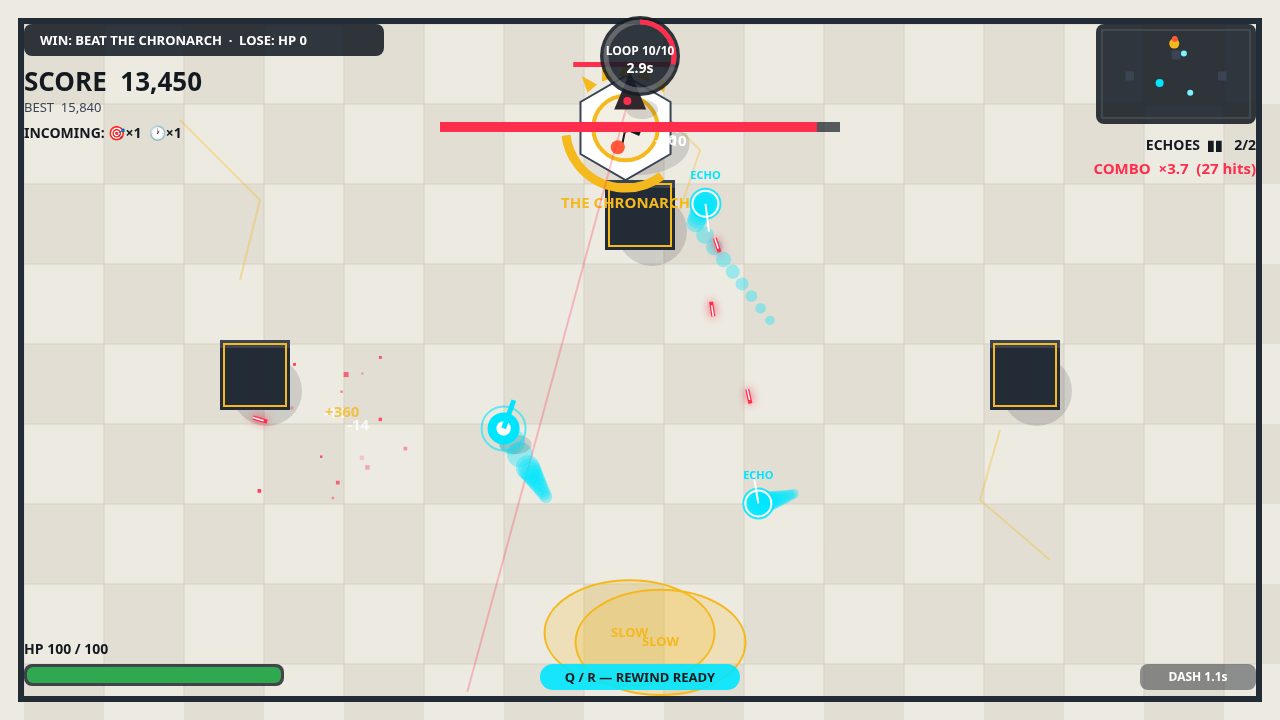
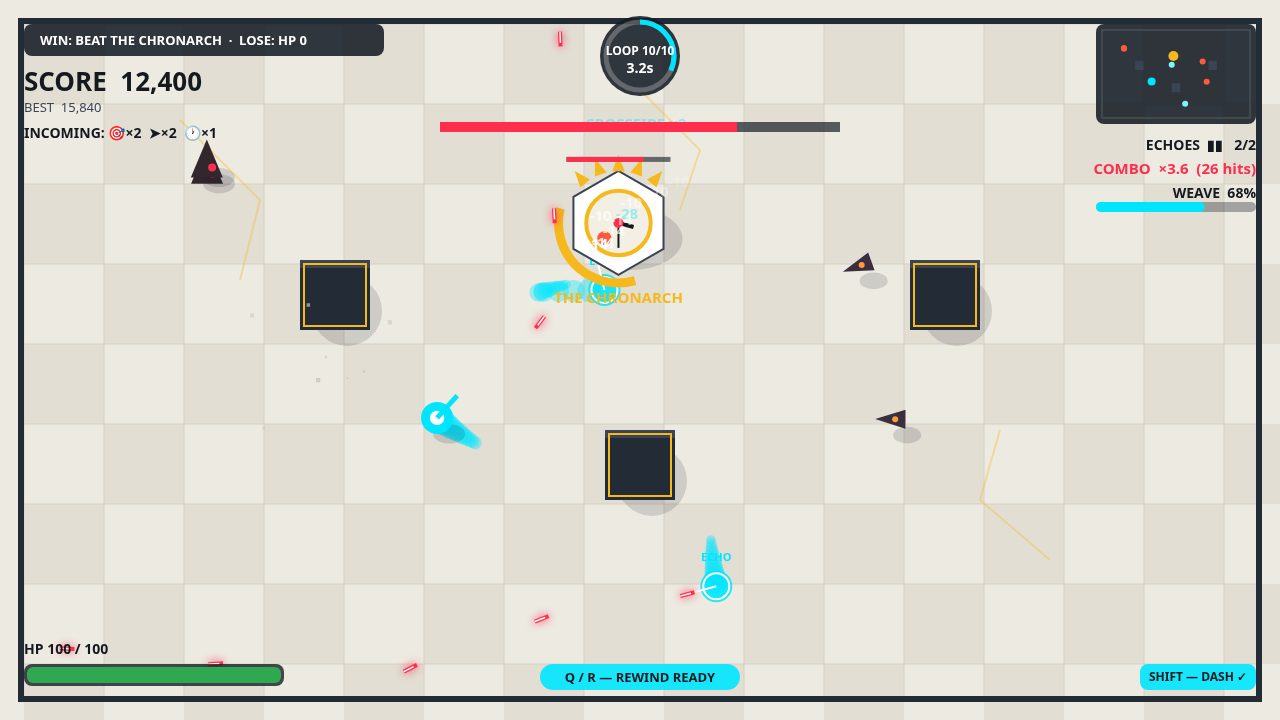
Pass 1: sharpen the hook — WEAVE meter, PARADOX SURGE, clean vs frayed rewinds
- WEAVE meter 0..100, +34 per crossfire (3 fill it); HUD bar under the
  combo gauge, flashing PARADOX READY at 100; SURGES on the win screen.
- PARADOX SURGE: a rewind at full Weave spends it for +1 echo slot
  (hard cap 4); banner + gold float; echoSlots() is the one source of
  truth for capacity (HUD, rewind cap, draft screen).
- Clean vs frayed rewind: manual Q/R is clean; timeout rewinds add
  fray (cap 3), each fray spawns an extra Chaser next loop; radial
  clock pulses red under 3s with a REWIND NOW (Q) hint.
- Title one-liner: YOUR PAST SELF FIGHTS BESIDE YOU. + subline.
- Bot now banks the echo early even with a full bench (manual rewind
  is clean; the clock running out is what costs).
- Verified: bot wins S on seeds 1/5/9; surges 3-5/run, crossfires
  15-23/run, max 4 echoes; careless loses Loop 2; lag unchanged
  (0.906 sim/wall-s); determinism maxErr 0; zero errors.

diff --git a/game/src/ui/DiegeticHUDRenderer.js b/game/src/ui/DiegeticHUDRenderer.js
@@ -5,6 +5,7 @@
 // screen explains the mechanic in a 3-panel diagram (FIGHT 10s → REWIND →
 // ECHO REPLAYS IT) so the loop is understood in one glance at 382x238.
 import { W, H, ARENA, COLOURS, MAX_LOOPS, DIFFICULTY_ORDER, DIFFICULTIES, clamp } from '../config.js';
+import { echoSlots } from '../core/GameLoopEngine.js';
 import { UPGRADES } from '../systems/ParadoxUpgradeSystem.js';
 
 function rr(ctx, x, y, w, h, r) {
@@ -346,9 +347,16 @@ function drawPlayHUD(ctx, state, input) {
   for (const t of order) if (counts[t]) { inc += (first ? '' : '  ') + icons[t] + '×' + counts[t]; first = false; }
   if (first) inc += '— arena clear —';
   text(ctx, inc, 24, 134, 'bold 14px system-ui, sans-serif', '#14181F', 'left');
-  // Radial timeline clock, top-center.
+  // Radial timeline clock, top-center. Under 3s it pulses red: the player
+  // should WANT to rewind deliberately (Q) before the clock runs out.
   const cx = 640, cy = 56, R = 34;
   const frac = clamp(state.loopTimeLeft / state.diff.loop, 0, 1);
+  const urgent = state.screen === 'play' && state.loopTimeLeft < 3 && state.loopElapsed >= 2;
+  if (urgent) {
+    ctx.strokeStyle = 'rgba(255,46,77,' + (0.5 + 0.4 * Math.sin(state.time * 10)) + ')';
+    ctx.lineWidth = 3;
+    ctx.beginPath(); ctx.arc(cx, cy, R + 12 + 2 * Math.sin(state.time * 10), 0, Math.PI * 2); ctx.stroke();
+  }
   ctx.fillStyle = 'rgba(22,28,37,0.88)';
   ctx.beginPath(); ctx.arc(cx, cy, R + 6, 0, Math.PI * 2); ctx.fill();
   ctx.strokeStyle = 'rgba(255,255,255,0.25)'; ctx.lineWidth = 5;
@@ -357,6 +365,13 @@ function drawPlayHUD(ctx, state, input) {
   ctx.beginPath(); ctx.arc(cx, cy, R, -Math.PI / 2, -Math.PI / 2 + frac * Math.PI * 2); ctx.stroke();
   text(ctx, 'LOOP ' + state.loop + '/' + MAX_LOOPS, cx, cy - 4, 'bold 12px system-ui, sans-serif', '#FFFFFF', 'center');
   text(ctx, Math.max(0, state.loopTimeLeft).toFixed(1) + 's', cx, cy + 13, 'bold 14px system-ui, sans-serif', '#FFFFFF', 'center');
+  // Fray + manual-rewind hint, under the clock.
+  if (state.fray > 0) text(ctx, 'TIMELINE FRAY ×' + state.fray, cx, 150, 'bold 13px system-ui, sans-serif', COLOURS.crimson, 'center');
+  if (urgent) {
+    ctx.globalAlpha = 0.6 + 0.4 * Math.sin(state.time * 10);
+    text(ctx, 'REWIND NOW  (Q)', cx, state.fray > 0 ? 174 : 150, 'bold 15px system-ui, sans-serif', COLOURS.gold, 'center');
+    ctx.globalAlpha = 1;
+  }
   // Boss bar under the clock.
   if (state.boss && state.boss.hp > 0) {
     // Bar only: the boss's name is drawn under the boss itself.
@@ -384,11 +399,24 @@ function drawPlayHUD(ctx, state, input) {
   for (const ec of state.echoes) dot(ec.x, ec.y, '#7DF3FF', 3);
   if (p.alive) dot(p.x, p.y, COLOURS.cyan, 4);
   // Echo slots + combo, under the minimap.
+  const slotsN = echoSlots(state);
   let slots = 'ECHOES  ';
-  for (let i = 0; i < state.upgradeValues.maxEchoes; i++) slots += i < state.echoes.length ? '▮' : '▯';
-  text(ctx, slots + '   ' + state.echoes.length + '/' + state.upgradeValues.maxEchoes, 1256, 146, 'bold 14px system-ui, sans-serif', '#14181F', 'right');
+  for (let i = 0; i < slotsN; i++) slots += i < state.echoes.length ? '▮' : '▯';
+  text(ctx, slots + '   ' + state.echoes.length + '/' + slotsN, 1256, 146, 'bold 14px system-ui, sans-serif', '#14181F', 'right');
   const cm = (1 + state.combo * 0.1).toFixed(1);
   text(ctx, 'COMBO  ×' + cm + (state.combo > 0 ? '  (' + state.combo + ' hits)' : ''), 1256, 170, 'bold 15px system-ui, sans-serif', state.combo >= 10 ? COLOURS.crimson : '#14181F', 'right');
+  // WEAVE meter: crossfires charge it (3 fill it). At 100 the next rewind
+  // is a PARADOX SURGE — +1 echo slot. The label flashes gold when ready.
+  const wv = clamp(state.weave || 0, 0, 100);
+  const weaveReady = wv >= 100;
+  const weaveCol = weaveReady ? (Math.sin(state.time * 8) > 0 ? COLOURS.gold : '#FFFFFF') : '#14181F';
+  text(ctx, weaveReady ? '⚡ PARADOX READY' : 'WEAVE  ' + Math.floor(wv) + '%', 1256, 194, 'bold 14px system-ui, sans-serif', weaveCol, 'right');
+  ctx.fillStyle = 'rgba(22,28,37,0.35)';
+  rr(ctx, 1096, 202, 160, 10, 5); ctx.fill();
+  if (wv > 0) {
+    ctx.fillStyle = weaveReady ? COLOURS.gold : COLOURS.cyan;
+    rr(ctx, 1096, 202, 160 * (wv / 100), 10, 5); ctx.fill();
+  }
   // HP bar, bottom-left.
   ctx.fillStyle = 'rgba(22,28,37,0.8)';
   rr(ctx, 24, 664, 260, 22, 8); ctx.fill();
@@ -442,8 +470,9 @@ function drawTitle(ctx, state, input) {
   rr(ctx, 150, 36, 980, 648, 18); ctx.fill();
   ctx.strokeStyle = COLOURS.gold; ctx.lineWidth = 2;
   rr(ctx, 150, 36, 980, 648, 18); ctx.stroke();
-  text(ctx, 'CHRONOWEAVE', 640, 100, 'bold 62px system-ui, sans-serif', '#FFFFFF', 'center');
-  text(ctx, 'Every 10 seconds, rewind — and fight beside your own ghost.', 640, 142, 'italic 19px system-ui, sans-serif', '#7DF3FF', 'center');
+  text(ctx, 'CHRONOWEAVE', 640, 96, 'bold 62px system-ui, sans-serif', '#FFFFFF', 'center');
+  text(ctx, 'YOUR PAST SELF FIGHTS BESIDE YOU.', 640, 134, 'bold 27px system-ui, sans-serif', COLOURS.gold, 'center');
+  text(ctx, 'Rewind to multiply. Crossfire to charge the Weave.', 640, 160, 'italic 17px system-ui, sans-serif', '#7DF3FF', 'center');
   // 3-panel diagram: FIGHT → REWIND → ECHO REPLAYS.
   const panels = [
     { n: '1', title: 'FIGHT 10s', sub: 'WASD move · mouse aim · click shoot', col: COLOURS.crimson },
@@ -452,19 +481,20 @@ function drawTitle(ctx, state, input) {
   ];
   panels.forEach((pn, i) => {
     const x = 190 + i * 310;
+    const y = 182;
     ctx.fillStyle = 'rgba(255,255,255,0.08)';
-    rr(ctx, x, 168, 280, 96, 10); ctx.fill();
+    rr(ctx, x, y, 280, 96, 10); ctx.fill();
     ctx.strokeStyle = pn.col; ctx.lineWidth = 2;
-    rr(ctx, x, 168, 280, 96, 10); ctx.stroke();
+    rr(ctx, x, y, 280, 96, 10); ctx.stroke();
     ctx.fillStyle = pn.col;
-    ctx.beginPath(); ctx.arc(x + 28, 198, 16, 0, Math.PI * 2); ctx.fill();
-    text(ctx, pn.n, x + 28, 199, 'bold 17px system-ui, sans-serif', '#14181F', 'center');
-    text(ctx, pn.title, x + 52, 192, 'bold 17px system-ui, sans-serif', '#FFFFFF', 'left');
-    text(ctx, pn.sub, x + 16, 232, '13px system-ui, sans-serif', '#C9C2B2', 'left');
-    if (i < 2) text(ctx, '➜', x + 282, 216, 'bold 22px system-ui, sans-serif', '#FFFFFF', 'center');
+    ctx.beginPath(); ctx.arc(x + 28, y + 30, 16, 0, Math.PI * 2); ctx.fill();
+    text(ctx, pn.n, x + 28, y + 31, 'bold 17px system-ui, sans-serif', '#14181F', 'center');
+    text(ctx, pn.title, x + 52, y + 24, 'bold 17px system-ui, sans-serif', '#FFFFFF', 'left');
+    text(ctx, pn.sub, x + 16, y + 64, '13px system-ui, sans-serif', '#C9C2B2', 'left');
+    if (i < 2) text(ctx, '➜', x + 282, y + 48, 'bold 22px system-ui, sans-serif', '#FFFFFF', 'center');
   });
   // HOW TO PLAY + enemy list, two columns.
-  text(ctx, 'HOW TO PLAY', 190, 296, 'bold 16px system-ui, sans-serif', COLOURS.gold, 'left');
+  text(ctx, 'HOW TO PLAY', 190, 306, 'bold 16px system-ui, sans-serif', COLOURS.gold, 'left');
   const how = [
     'WASD / arrows — move     ·     Mouse — aim     ·     Click / hold — fire lasers',
     'SHIFT / SPACE — dash (brief invulnerability)     ·     Q / R — rewind early',
@@ -472,18 +502,18 @@ function drawTitle(ctx, state, input) {
     'Guardians block shots from the FRONT — let an echo distract them, then backstab.',
     'Clear a loop to draft 1 of 3 upgrades. Beat THE CHRONARCH on Loop 10 to win.',
   ];
-  how.forEach((h, i) => text(ctx, h, 190, 320 + i * 22, '14px system-ui, sans-serif', '#EDEAE2', 'left'));
-  text(ctx, 'MEET THE ENEMY', 190, 448, 'bold 16px system-ui, sans-serif', COLOURS.gold, 'left');
+  how.forEach((h, i) => text(ctx, h, 190, 328 + i * 21, '14px system-ui, sans-serif', '#EDEAE2', 'left'));
+  text(ctx, 'MEET THE ENEMY', 190, 442, 'bold 16px system-ui, sans-serif', COLOURS.gold, 'left');
   const foes = ['guardian', 'sniper', 'bomber', 'chaser', 'splitter', 'warden', 'chronarch'];
   foes.forEach((t, i) => {
     const [icon, name] = ENEMY_LABELS[t];
     const x = 190 + (i % 4) * 235;
-    const y = 474 + Math.floor(i / 4) * 30;
+    const y = 468 + Math.floor(i / 4) * 30;
     text(ctx, icon + '  ' + name, x, y, 'bold 13px system-ui, sans-serif', '#FFFFFF', 'left');
   });
   // Difficulty buttons.
   DIFFICULTY_ORDER.forEach((d, i) => {
-    const x = 250 + i * 210, y = 566, w = 190, h = 44;
+    const x = 250 + i * 210, y = 560, w = 190, h = 44;
     const sel = state.difficulty === d;
     ctx.fillStyle = sel ? COLOURS.cyan : 'rgba(255,255,255,0.10)';
     rr(ctx, x, y, w, h, 8); ctx.fill();
@@ -495,11 +525,11 @@ function drawTitle(ctx, state, input) {
   });
   // START button.
   ctx.fillStyle = COLOURS.crimson;
-  rr(ctx, 470, 626, 340, 52, 10); ctx.fill();
+  rr(ctx, 470, 620, 340, 52, 10); ctx.fill();
   ctx.strokeStyle = '#FFFFFF'; ctx.lineWidth = 2;
-  rr(ctx, 470, 626, 340, 52, 10); ctx.stroke();
-  text(ctx, '▶  START SHIFT', 640, 653, 'bold 22px system-ui, sans-serif', '#FFFFFF', 'center');
-  input.clickRects.push({ kind: 'start', x: 470, y: 626, w: 340, h: 52 });
+  rr(ctx, 470, 620, 340, 52, 10); ctx.stroke();
+  text(ctx, '▶  START SHIFT', 640, 647, 'bold 22px system-ui, sans-serif', '#FFFFFF', 'center');
+  input.clickRects.push({ kind: 'start', x: 470, y: 620, w: 340, h: 52 });
   text(ctx, 'BEST  ' + state.best.toLocaleString('en-US'), 1090, 64, 'bold 15px system-ui, sans-serif', COLOURS.gold, 'right');
 }
 
@@ -541,7 +571,7 @@ function drawDraft(ctx, state, input) {
   }).join('  ·  ') : 'none yet';
   text(ctx, 'OWNED:  ' + owned, 640, 516, '15px system-ui, sans-serif', '#C9C2B2', 'center');
   const next = state.loop === 5 ? 'NEXT: LOOP 5 — THE WARDEN' : state.loop === 10 ? 'NEXT: LOOP 10 — THE CHRONARCH' : 'NEXT: LOOP ' + state.loop;
-  text(ctx, next + '   ·   ECHOES ' + state.echoes.length + '/' + state.upgradeValues.maxEchoes, 640, 548, 'bold 16px system-ui, sans-serif', COLOURS.cyan, 'center');
+  text(ctx, next + '   ·   ECHOES ' + state.echoes.length + '/' + echoSlots(state), 640, 548, 'bold 16px system-ui, sans-serif', COLOURS.cyan, 'center');
 }
 
 // ---- Summary ----
@@ -570,11 +600,12 @@ function drawSummary(ctx, state, input) {
     ['KILLS', String(state.kills)],
     ['ACCURACY', acc + '%'],
     ['CROSSFIRES', String(state.crossfires)],
+    ['SURGES', String(state.surges || 0)],
     ['SHIELD BREAKS', String(state.shieldBreaks)],
     ['REWINDS', String(state.rewinds)],
   ];
   stats.forEach((s, i) => {
-    const x = 320 + i * 125;
+    const x = 316 + i * 108;
     text(ctx, s[0], x, 396, 'bold 12px system-ui, sans-serif', '#C9C2B2', 'center');
     text(ctx, s[1], x, 422, 'bold 20px system-ui, sans-serif', '#FFFFFF', 'center');
   });

diff --git a/game/src/core/GameLoopEngine.js b/game/src/core/GameLoopEngine.js
@@ -5,13 +5,20 @@
 // clear, or EARLY when the player presses Q / R — the rewind is an active verb.
 // The previous 10 seconds become a cyan Time Echo that replays the exact
 // recorded inputs; you respawn as a new timeline instance.
-import { ARENA, DT, MAX_LOOPS, PLAYER, SCORING, DIFFICULTIES, DIFFICULTY_ORDER, mulberry32, clamp, dist, circleRectResolve } from '../config.js';
+import { ARENA, DT, MAX_LOOPS, PLAYER, SCORING, WEAVE_MAX, MAX_ECHO_SLOTS, FRAY_CAP, DIFFICULTIES, DIFFICULTY_ORDER, mulberry32, clamp, dist, circleRectResolve } from '../config.js';
 import { createRecorder, recordFrame, createEcho, echoFrame } from '../systems/TimelineRecorderSystem.js';
 import { fireBolt, updateBolts, updateShockwaves, updateRifts, addFloat, spawnSparks, comboMult } from '../systems/BallisticsAndShieldSystem.js';
 import { layoutPillars, spawnWave, updateEnemies, waveCleared } from '../systems/ArenaDirector.js';
 import { rollOffers, applyUpgrade, upgradeValues } from '../systems/ParadoxUpgradeSystem.js';
 
 export const SPAWN = { x: 640, y: 600 };
+
+// Effective echo capacity: base 2 (3 with TRIPLE ECHO) + PARADOX SURGE
+// bonuses, hard cap 4. The HUD, the rewind cap, and the draft screen all
+// read this one function so the slots shown are always the slots real.
+export function echoSlots(state) {
+  return Math.min(MAX_ECHO_SLOTS, state.upgradeValues.maxEchoes + (state.echoBonus || 0));
+}
 
 // The bot driver is registered once by main.js and kept at module level:
 // startRun() replaces the whole state object, so a driver stored ON the state
@@ -26,6 +33,10 @@ export function newRun(difficulty, seed) {
     rng: mulberry32(seed || 1),
     time: 0, loop: 1, loopTimeLeft: diff.loop, loopElapsed: 0,
     score: 0, best: 0, combo: 0, comboT: 0, crossfires: 0, kills: 0,
+    // WEAVE / SURGE / FRAY — the hook's state. Weave 0..100 charges on
+    // crossfires; a rewind at 100 spends it for +1 echo slot (surge).
+    // Fray counts timeout rewinds (cap 3); each fray adds a Chaser next loop.
+    weave: 0, surges: 0, echoBonus: 0, surgePending: false, fray: 0,
     shotsFired: 0, shotsHit: 0, shieldBreaks: 0, shieldBlocks: 0, rewinds: 0,
     player: {
       x: SPAWN.x, y: SPAWN.y, angle: -Math.PI / 2, radius: PLAYER.radius,
@@ -117,6 +128,19 @@ function startRewind(state, kind) {
   state.rewindKind = kind;
   state.rewindT = 1.25;
   state.rewinds++;
+  // PARADOX SURGE: a rewind spent at full Weave burns the meter for +1 echo
+  // slot on the upcoming loop (bonus caps at +2, so slots cap at 4 total).
+  if (state.weave >= WEAVE_MAX) {
+    state.weave = 0;
+    state.surges++;
+    state.echoBonus = Math.min(2, (state.echoBonus || 0) + 1);
+    state.surgePending = true;
+    state.events.push({ type: 'surge', x: 640, y: 360 });
+  }
+  // FRAYED rewind: only the TIMEOUT rewind frays the timeline. A manual
+  // (Q/R) or clear rewind is clean. Each fray adds one extra Chaser to the
+  // next loop's wave (cap 3) — the price of letting the clock run out.
+  if (kind === 'timeout') state.fray = Math.min(FRAY_CAP, (state.fray || 0) + 1);
   state.slowmoT = 0.5;
   state.flash = 1;
   state.events.push({ type: 'rewind', x: 640, y: 360 });
@@ -127,7 +151,7 @@ function finishRewind(state) {
   const frames = state.recorder.frames.slice();
   if (frames.length >= 30) {
     state.echoes.push(createEcho(frames, SPAWN.x, SPAWN.y));
-    while (state.echoes.length > state.upgradeValues.maxEchoes) {
+    while (state.echoes.length > echoSlots(state)) {
       const old = state.echoes.shift();
       spawnSparks(state, old.x, old.y, 16, '#00E5FF');
     }
@@ -159,6 +183,12 @@ function finishRewind(state) {
     state.screen = 'play';
     const name = state.loop === 5 ? ' — THE WARDEN' : state.loop === 10 ? ' — THE CHRONARCH' : '';
     state.banner = { txt: 'LOOP ' + state.loop + name, sub: cleared ? '' : 'The unfinished fight continues', ttl: 2.4 };
+  }
+  // A surge overrides the loop banner: the player must SEE the payoff.
+  if (state.surgePending) {
+    state.surgePending = false;
+    state.banner = { txt: 'PARADOX SURGE! +1 ECHO SLOT', sub: 'Weave spent — ' + echoSlots(state) + ' echo slots this loop', ttl: 2.8 };
+    addFloat(state, 640, 300, '+1 ECHO SLOT', '#F5B81D');
   }
 }
 
@@ -252,6 +282,7 @@ function drainEvents(state, audio) {
       case 'shieldBlock': state.shieldBlocks++; audio.sfx('block'); break;
       case 'shieldBreak': state.shieldBreaks++; state.slowmoT = Math.max(state.slowmoT, 0.18); state.hitstopT = Math.max(state.hitstopT, 0.045); audio.sfx('shieldBreak'); break;
       case 'crossfire': audio.sfx('crossfire'); break;
+      case 'surge': audio.sfx('upgrade'); break;
       case 'kill': state.slowmoT = Math.max(state.slowmoT, 0.12); audio.sfx('kill'); break;
       case 'dash': audio.sfx('dash'); break;
       case 'detonate': audio.sfx('explode'); break;

diff --git a/game/src/main.js b/game/src/main.js
@@ -108,8 +108,10 @@ function computeBotInput(state) {
   if (m > 1) { mx /= m; my /= m; }
   out.mx = clamp(mx, -1, 1); out.my = clamp(my, -1, 1);
   if (d < 580 && lineClear(state, p.x, p.y, target.x, target.y)) out.fire = true;
-  // Bank the echo early when the loop is almost over and echoes are short.
-  if (state.loopTimeLeft < 3.5 && state.loopElapsed >= 2 && state.echoes.length < state.upgradeValues.maxEchoes) out.rewind = true;
+  // Bank the echo early when the loop is almost over: a manual rewind is
+  // CLEAN, while letting the clock run out frays the timeline (+Chasers).
+  // Rewinding with a full bench just retires the oldest echo — still worth it.
+  if (state.loopTimeLeft < 3.5 && state.loopElapsed >= 2) out.rewind = true;
   return out;
 }
 setBotDriver(computeBotInput);
@@ -161,7 +163,7 @@ window.__chronoweave = {
     state.score = 15840;
     state.best = 15840;
     state.perLoop = [1, 2, 3, 4, 5, 6, 7, 8, 9, 10].map((l) => ({ loop: l, kills: 4 + (l % 3), score: 900 + l * 160, time: 9.4 }));
-    state.kills = 52; state.crossfires = 14; state.shieldBreaks = 11; state.rewinds = 9;
+    state.kills = 52; state.crossfires = 14; state.shieldBreaks = 11; state.rewinds = 9; state.surges = 3;
     state.shotsFired = 640; state.shotsHit = 410;
     state.win = true; state.winGrade = 'S'; state.newBest = true;
     state.screen = 'summary';

diff --git a/game/src/systems/BallisticsAndShieldSystem.js b/game/src/systems/BallisticsAndShieldSystem.js
@@ -4,7 +4,7 @@
 // front spark off it for 0 damage. The counter-play is an echo drawing its
 // attention from the front while the live player backstabs it — a backstab
 // triggers SHIELD BREAK (stagger + 1.5x damage).
-import { ARENA, PLAYER, angleDiff, clamp, dist, segmentHitsRect } from '../config.js';
+import { ARENA, PLAYER, WEAVE_PER_CROSSFIRE, WEAVE_MAX, angleDiff, clamp, dist, segmentHitsRect } from '../config.js';
 
 export function fireBolt(state, shooter, angle, opts) {
   const o = opts || {};
@@ -73,6 +73,9 @@ export function damageEnemy(state, enemy, dmg, from, hitX, hitY, fromEchoIdx) {
     dmg *= state.upgradeValues.crossfireMult;
     state.combo += 2; state.comboT = 2;
     state.crossfires++;
+    // WEAVE: every crossfire charges the meter — 3 crossfires fill it, and
+    // a rewind spent at full Weave becomes a PARADOX SURGE (+1 echo slot).
+    state.weave = Math.min(WEAVE_MAX, (state.weave || 0) + WEAVE_PER_CROSSFIRE);
     state.events.push({ type: 'crossfire', x: enemy.x, y: enemy.y });
     addFloat(state, enemy.x, enemy.y - 48, 'CROSSFIRE x' + state.upgradeValues.crossfireMult, '#00E5FF');
   }

diff --git a/game/src/config.js b/game/src/config.js
@@ -34,6 +34,15 @@ export const SCORING = {
   killBase: 100, loopClearBonus: 500, winBonusPerSecond: 10,
   gradeSMin: 9000, gradeAMin: 5500,
 };
+// WEAVE — the hook's meter. A crossfire (player + echo hit the same enemy
+// within 1.5s) charges it; 3 crossfires fill it. A rewind spent at full
+// Weave becomes a PARADOX SURGE (+1 echo slot, hard cap 4 total slots).
+// A timeout rewind frays the timeline: +1 fray (cap 3), and the next loop
+// spawns one extra Chaser per fray.
+export const WEAVE_PER_CROSSFIRE = 34;
+export const WEAVE_MAX = 100;
+export const MAX_ECHO_SLOTS = 4;
+export const FRAY_CAP = 3;
 
 export function mulberry32(seed) {
   let a = seed >>> 0;

diff --git a/game/src/systems/ArenaDirector.js b/game/src/systems/ArenaDirector.js
@@ -76,6 +76,9 @@ export function spawnWave(state, keep) {
     list.push(c); state.boss = c;
     add('sniper', 2, false); add('chaser', 2, false);
   }
+  // FRAY: a frayed timeline spawns extra Chasers — one per fray (cap 3).
+  // The timeout rewind's price, paid at the start of the next loop.
+  if (state.fray > 0) add('chaser', Math.min(3, state.fray), false);
   if (keep) {
     // Timeout / manual rewind: the unfinished fight continues — leftovers stay,
     // capped at 12 live enemies so the arena never floods.
